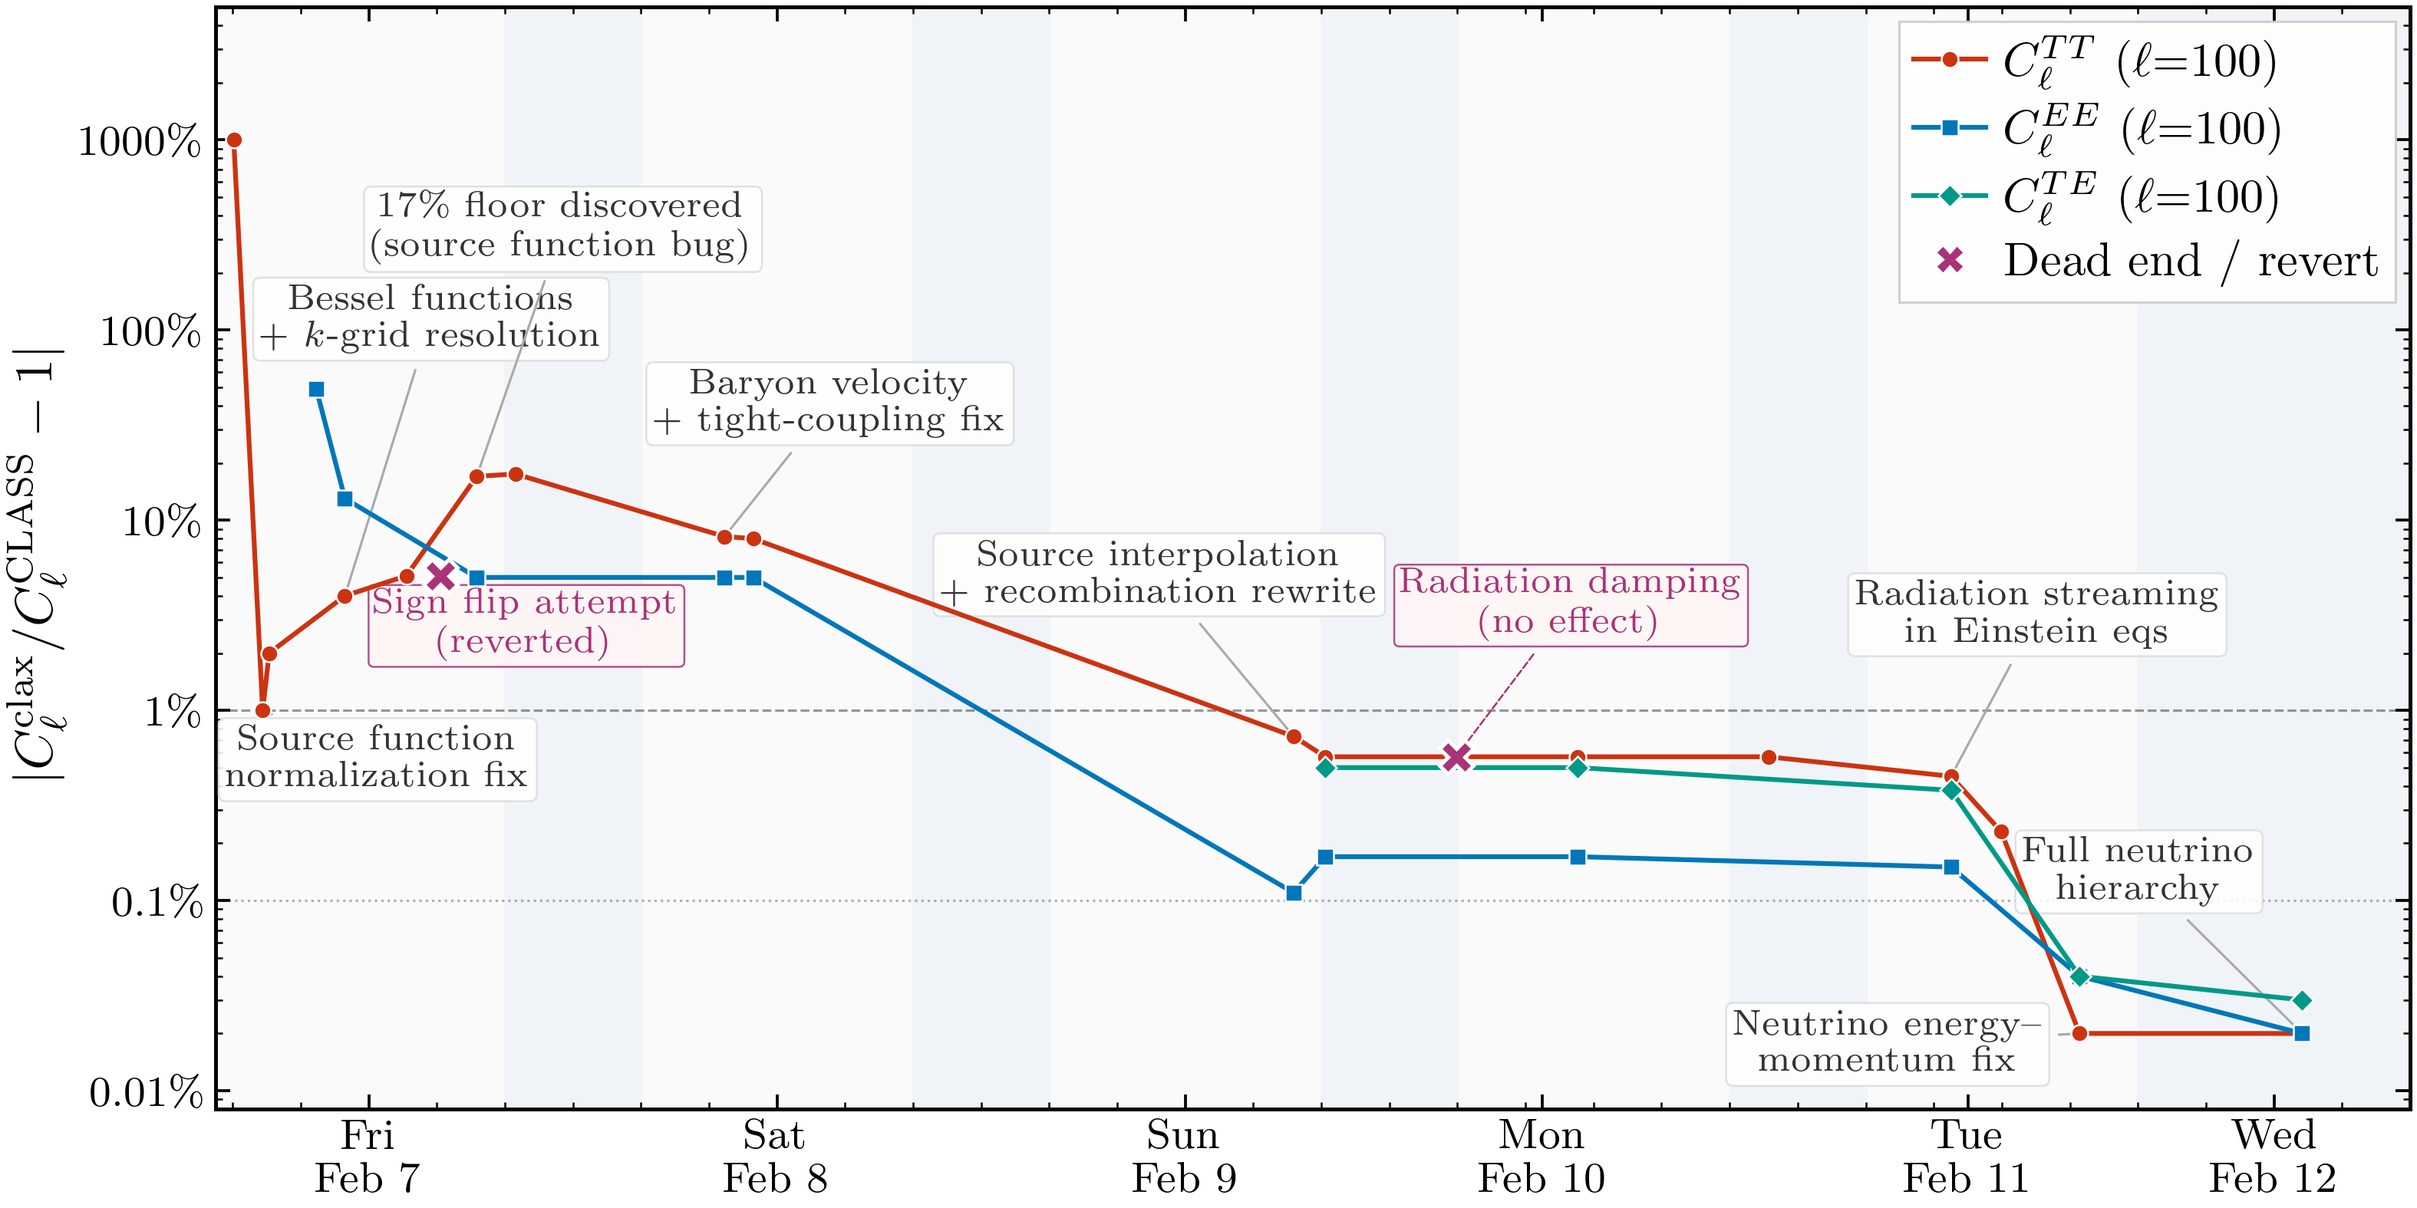
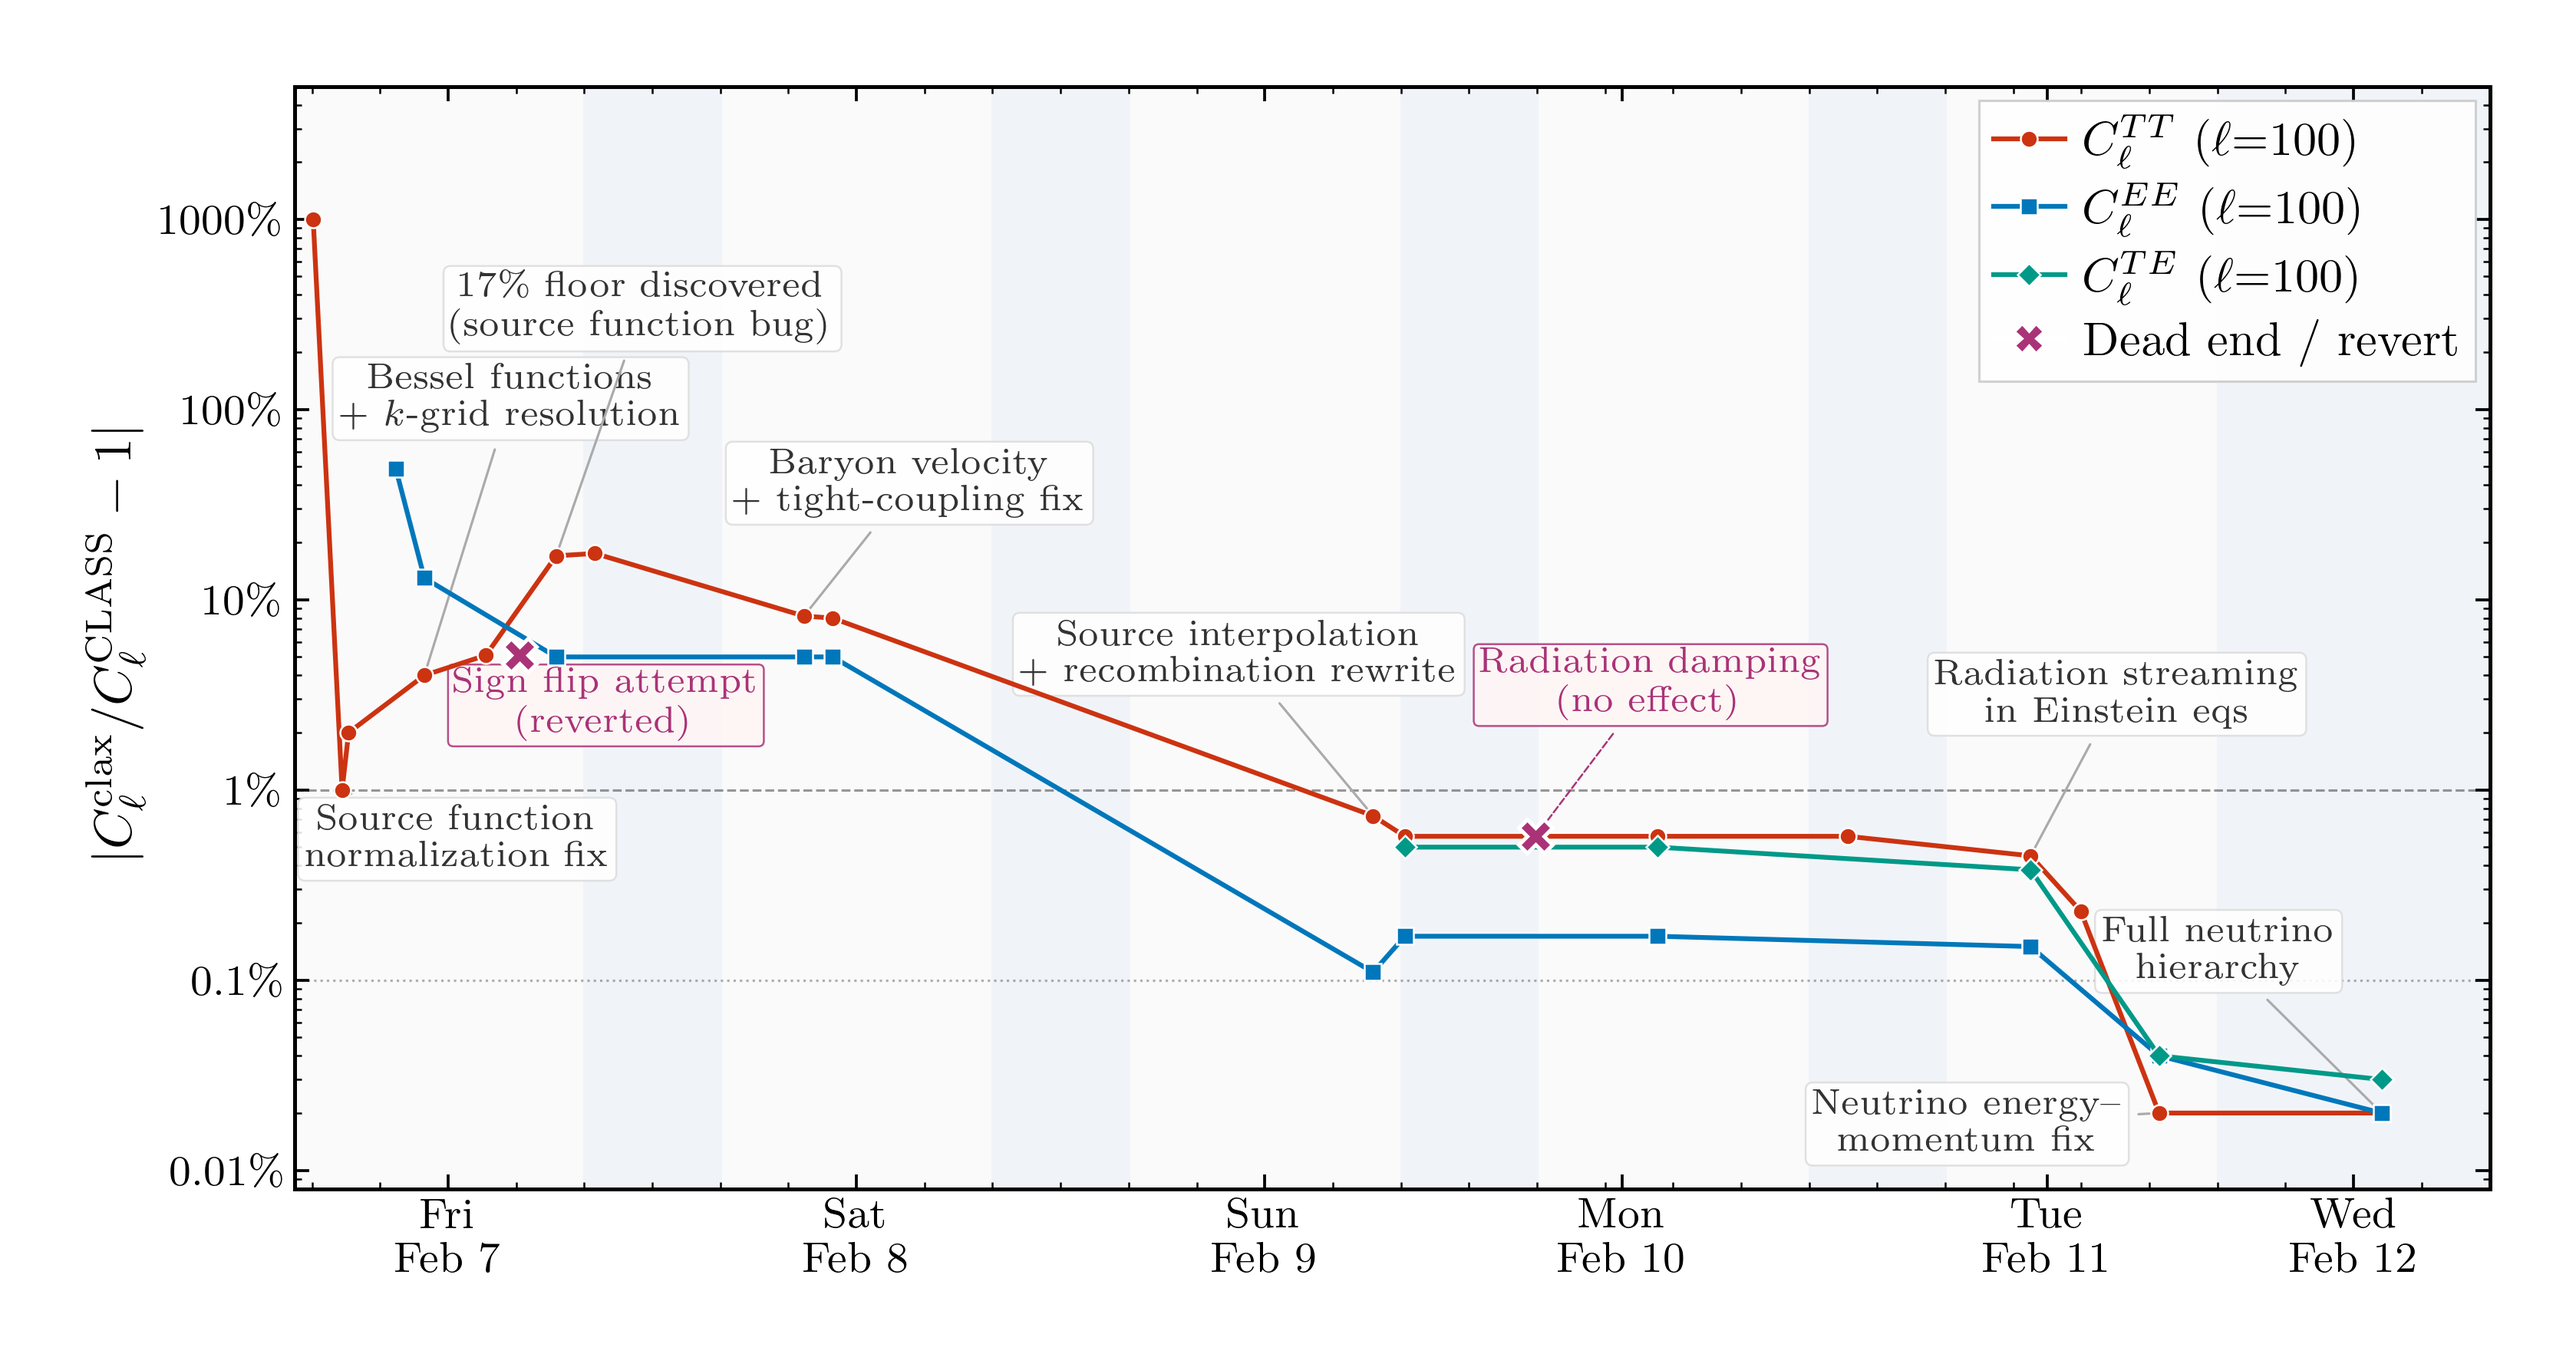
Add padding, larger legend/axis fonts, white figure background

diff --git a/scripts/plot_accuracy_timeline.py b/scripts/plot_accuracy_timeline.py
@@ -85,10 +85,10 @@ dead_arrow = dict(arrowstyle='-', color='#AA3377', lw=0.4, ls='--')
 # ── Figure ─────────────────────────────────────────────────────────────
 xmax = 128  # ~5.3 days
 fig, ax = plt.subplots(figsize=(7, 3.5))
+fig.patch.set_facecolor('white')
 
-# Day/night shading
-for s, e in [(-1, 16), (24, 40), (48, 64), (72, 88), (96, 112)]:
-    ax.axvspan(s, e, color=bg_day, zorder=0)
+# Day/night shading — use fill_between to stay within axes
+ax.set_facecolor(bg_day)
 for s, e in [(16, 24), (40, 48), (64, 72), (88, 96), (112, xmax)]:
     ax.axvspan(s, e, color=bg_night, zorder=0)
 
@@ -174,6 +174,8 @@ ax.yaxis.set_minor_formatter(mticker.NullFormatter())
 ax.tick_params(axis='y', labelsize=9)
 ax.tick_params(axis='x', labelsize=9)
 
-fig.savefig('figures/accuracy_timeline.pdf', bbox_inches='tight')
-fig.savefig('figures/accuracy_timeline.png', dpi=450, bbox_inches='tight')
+fig.savefig('figures/accuracy_timeline.pdf', bbox_inches='tight', pad_inches=0.25,
+            facecolor='white', edgecolor='none')
+fig.savefig('figures/accuracy_timeline.png', dpi=450, bbox_inches='tight', pad_inches=0.25,
+            facecolor='white', edgecolor='none')
 print("Saved to figures/accuracy_timeline.{pdf,png}")
